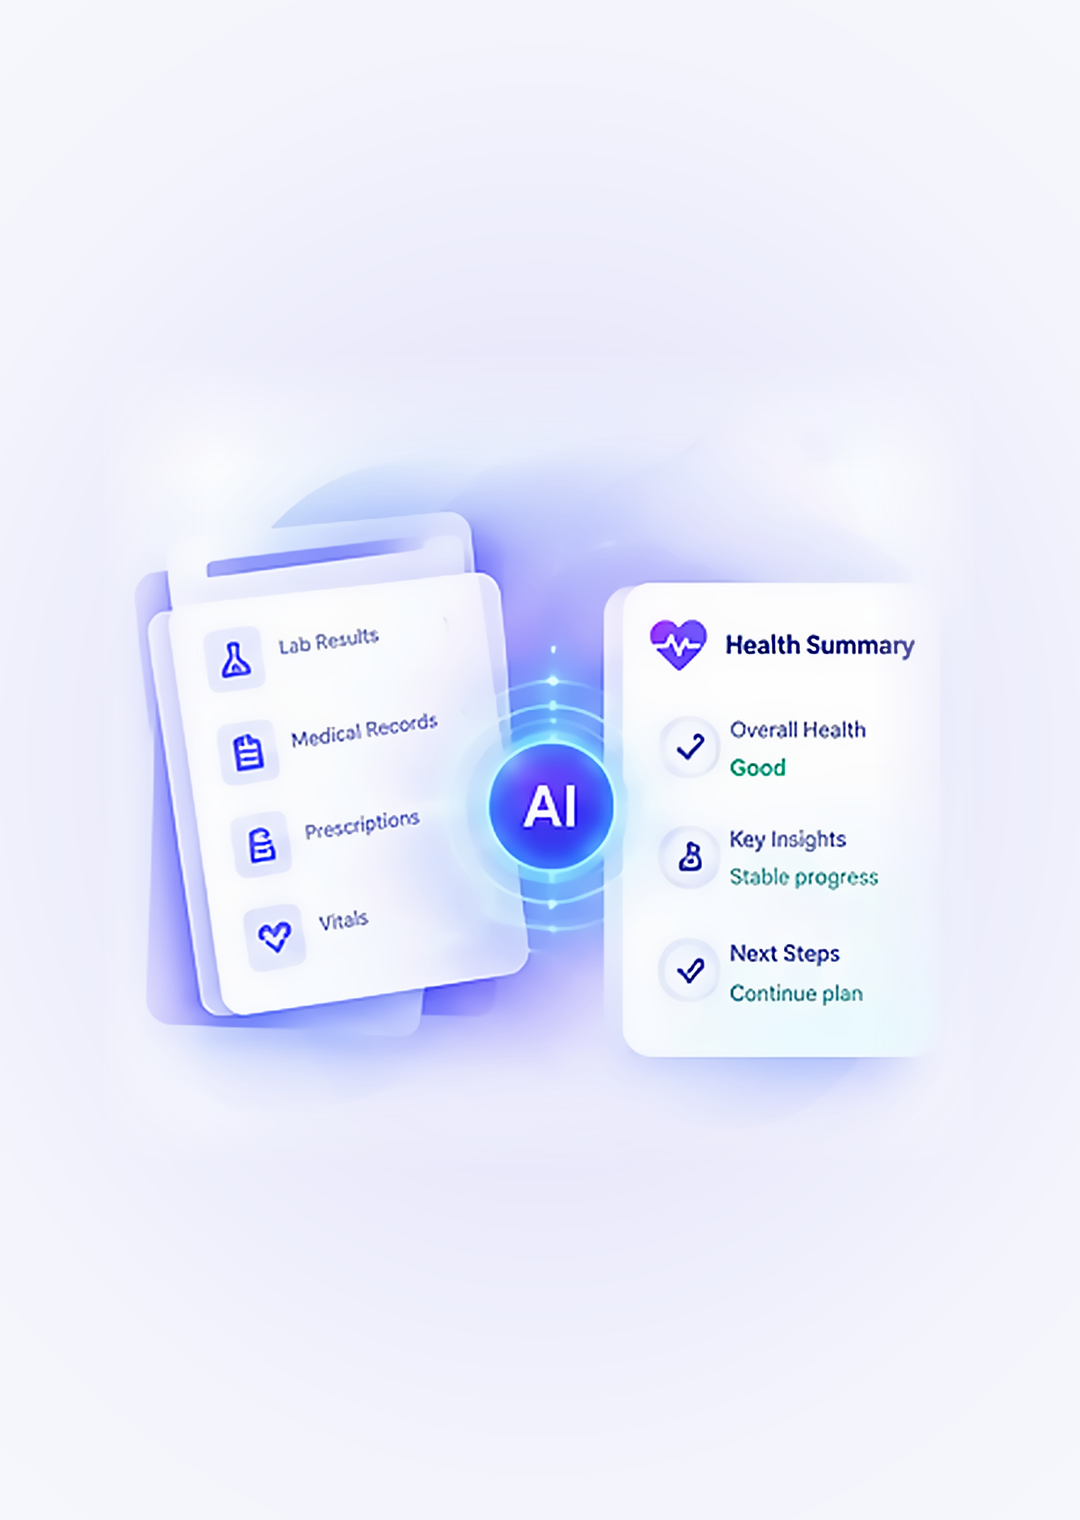
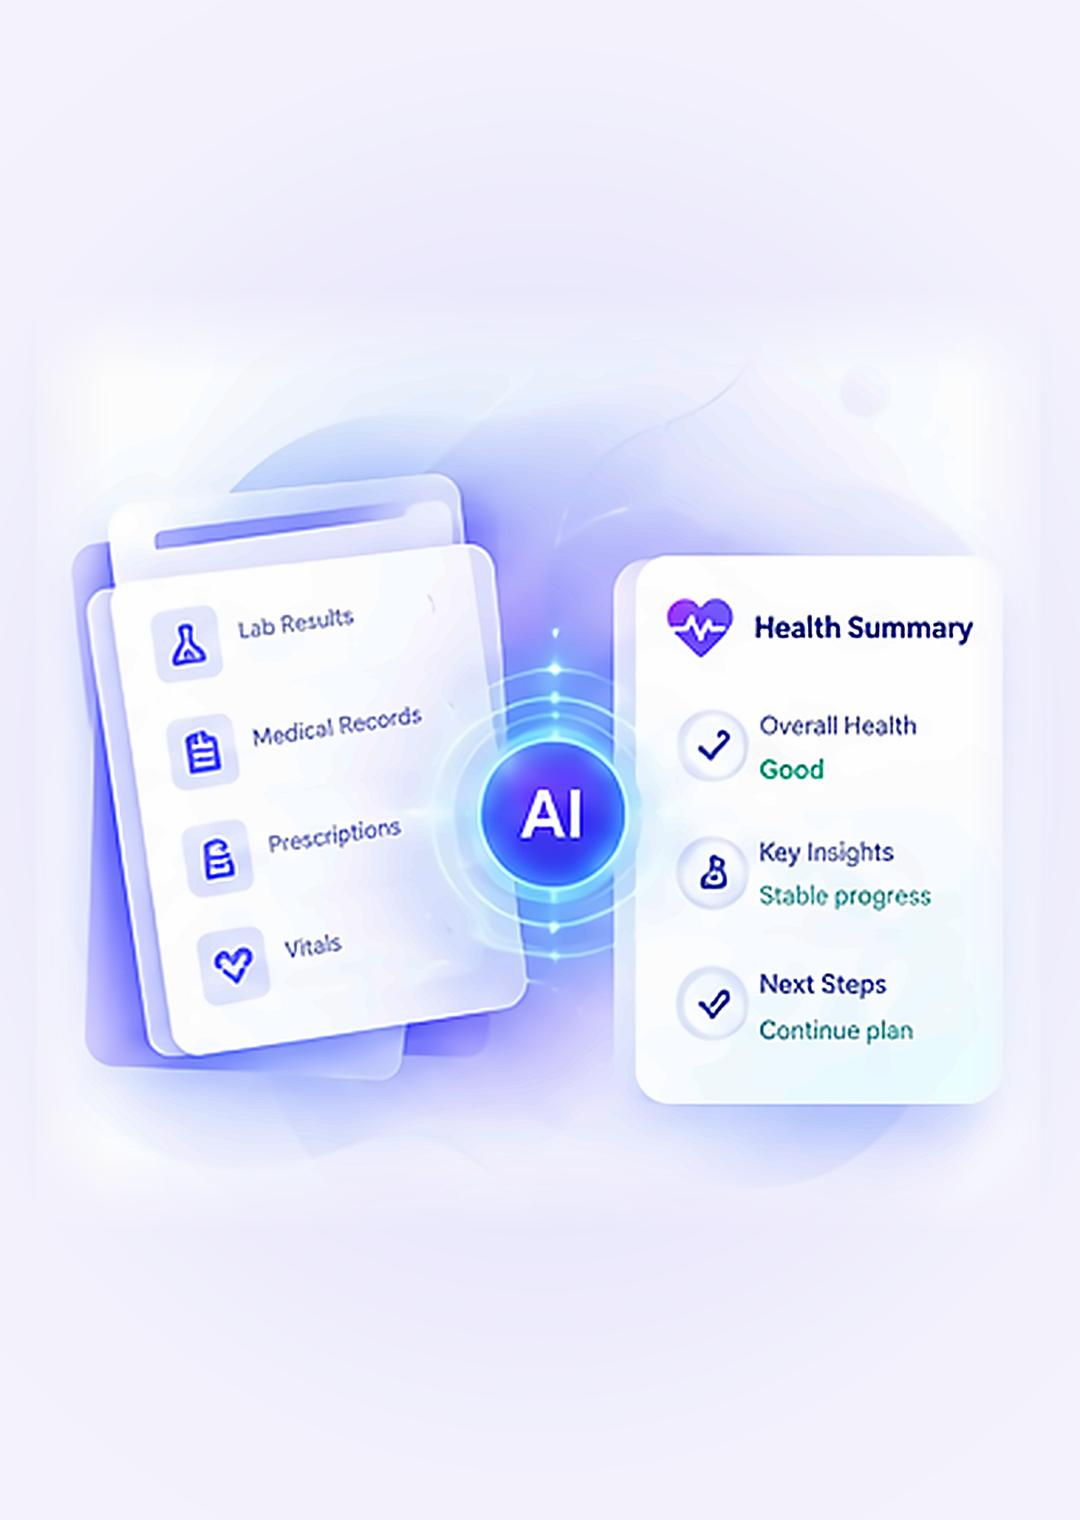
Final onboarding

Changed region(s): [[0.0611, 0.2783, 0.9167, 0.773], [0.3056, 0.5875, 0.3361, 0.6184]]

diff --git a/lib/features/auth/presentation/onboarding_overlay.dart b/lib/features/auth/presentation/onboarding_overlay.dart
@@ -20,6 +20,26 @@ import '../../../l10n/app_localizations.dart';
 import '../application/session.dart';
 import 'splash_overlay.dart';
 
+/// The hero panel's frame — a thin tinted border around the artwork rather
+/// than the page's own `primaryContainer`, per the design pass on
+/// 2026-09-17: the standard container tint read too washed-out at this size.
+abstract final class _OnboardingFrame {
+  static const Color lightFill = Color(0xFFDEDAFB);
+  static const Color lightBorder = Color(0xFFCDC6F8);
+  static const Color darkFill = Color(0xFF342E64);
+  static const Color darkBorder = Color(0xFF504896);
+
+  /// Dark mode only: the artwork was designed against a light background, so
+  /// it's dimmed to ~85% brightness (not desaturated) rather than shown at
+  /// full brightness against the surrounding dark frame.
+  static const dimInDark = ColorFilter.matrix([
+    0.85, 0, 0, 0, 0, //
+    0, 0.85, 0, 0, 0, //
+    0, 0, 0.85, 0, 0, //
+    0, 0, 0, 1, 0,
+  ]);
+}
+
 class _OnboardingPage {
   const _OnboardingPage({
     required this.asset,
@@ -175,6 +195,16 @@ class _OnboardingOverlayState extends ConsumerState<OnboardingOverlay> {
                                 ),
                               ),
                         style: FilledButton.styleFrom(
+                          // The theme's dark-mode primary is a pale lavender
+                          // (meant for text-on-dark contrast) — too weak for
+                          // a filled CTA, so this one button pins a stronger
+                          // purple with white text instead.
+                          backgroundColor: theme.brightness == Brightness.dark
+                              ? const Color(0xFF6C5AF5)
+                              : null,
+                          foregroundColor: theme.brightness == Brightness.dark
+                              ? Colors.white
+                              : null,
                           padding: const EdgeInsets.symmetric(
                             horizontal: Space.lg,
                             vertical: Space.sm,
@@ -303,34 +333,41 @@ class _OnboardingPageView extends StatelessWidget {
   Widget build(BuildContext context) {
     final theme = Theme.of(context);
     final scheme = theme.colorScheme;
+    final isDark = theme.brightness == Brightness.dark;
     return Padding(
       padding: const EdgeInsets.symmetric(horizontal: Space.xl),
       child: Column(
         children: [
-          // A big soft-tinted backdrop panel behind the card — turns a
-          // floating image into a composed "hero" moment instead of a
-          // picture pasted on the page, and (since the tint comes from
-          // primaryContainer) settles into dark mode as a muted violet
-          // rather than a hard image edge. Expanded so it fills the
-          // available height. The artwork itself (1080x1520, with its own
-          // soft gradient background baked in) sits inset by 8dp so that
-          // tint reads as a thin frame, then fills the rest edge-to-edge via
-          // fit:cover — no letterboxing, no separate card-on-card shadow.
+          // A thin tinted frame behind the card — turns a floating image
+          // into a composed "hero" moment instead of a picture pasted on the
+          // page. Expanded so it fills the available height. The artwork
+          // itself (1080x1520, with its own soft gradient background baked
+          // in) sits inset by 8dp so the frame reads as a border, then fills
+          // the rest edge-to-edge via fit:cover — no letterboxing.
           Expanded(
             child: Container(
               width: double.infinity,
               padding: const EdgeInsets.all(Space.xs),
               decoration: BoxDecoration(
-                color: Color.alphaBlend(
-                  scheme.primaryContainer.withValues(alpha: 0.35),
-                  scheme.surface,
+                color: isDark
+                    ? _OnboardingFrame.darkFill
+                    : _OnboardingFrame.lightFill,
+                border: Border.all(
+                  color: isDark
+                      ? _OnboardingFrame.darkBorder
+                      : _OnboardingFrame.lightBorder,
                 ),
                 borderRadius: Radii.cardLarge,
               ),
               child: ClipRRect(
                 borderRadius: BorderRadius.circular(20),
                 child: SizedBox.expand(
-                  child: Image.asset(page.asset, fit: BoxFit.cover),
+                  child: isDark
+                      ? ColorFiltered(
+                          colorFilter: _OnboardingFrame.dimInDark,
+                          child: Image.asset(page.asset, fit: BoxFit.cover),
+                        )
+                      : Image.asset(page.asset, fit: BoxFit.cover),
                 ),
               ),
             ),

diff --git a/test/features/onboarding_test.dart b/test/features/onboarding_test.dart
@@ -32,7 +32,7 @@ void main() {
 
     await _pumpPastSplash(tester);
 
-    expect(find.text('Understand your health at a glance'), findsOneWidget);
+    expect(find.text('Your health at a glance'), findsOneWidget);
     expect(find.text('Skip'), findsOneWidget);
     expect(find.text('Next'), findsOneWidget);
 
@@ -40,7 +40,7 @@ void main() {
     await tester.pump();
     await tester.pump(const Duration(milliseconds: 100));
 
-    expect(find.text('Understand your health at a glance'), findsNothing);
+    expect(find.text('Your health at a glance'), findsNothing);
     expect(find.text('Sign in'), findsWidgets);
     expect(prefs.getBool('ui.hasSeenOnboarding'), isTrue);
   });
@@ -94,7 +94,7 @@ void main() {
 
     await _pumpPastSplash(tester);
 
-    expect(find.text('Understand your health at a glance'), findsNothing);
+    expect(find.text('Your health at a glance'), findsNothing);
     expect(find.text('Sign in'), findsWidgets);
   });
 }

diff --git a/lib/l10n/app_localizations.dart b/lib/l10n/app_localizations.dart
@@ -3503,7 +3503,7 @@ abstract class AppLocalizations {
   /// No description provided for @onboardingPage1Title.
   ///
   /// In en, this message translates to:
-  /// **'Understand your health at a glance'**
+  /// **'Your health at a glance'**
   String get onboardingPage1Title;
 
   /// No description provided for @onboardingPage1Body.

diff --git a/lib/l10n/app_localizations_ar.dart b/lib/l10n/app_localizations_ar.dart
@@ -1916,7 +1916,7 @@ class AppLocalizationsAr extends AppLocalizations {
   String get nextLabel => 'التالي';
 
   @override
-  String get onboardingPage1Title => 'افهم صحتك بنظرة واحدة';
+  String get onboardingPage1Title => 'صحتك بنظرة واحدة';
 
   @override
   String get onboardingPage1Body =>

diff --git a/lib/l10n/app_localizations_en.dart b/lib/l10n/app_localizations_en.dart
@@ -1896,7 +1896,7 @@ class AppLocalizationsEn extends AppLocalizations {
   String get nextLabel => 'Next';
 
   @override
-  String get onboardingPage1Title => 'Understand your health at a glance';
+  String get onboardingPage1Title => 'Your health at a glance';
 
   @override
   String get onboardingPage1Body =>
